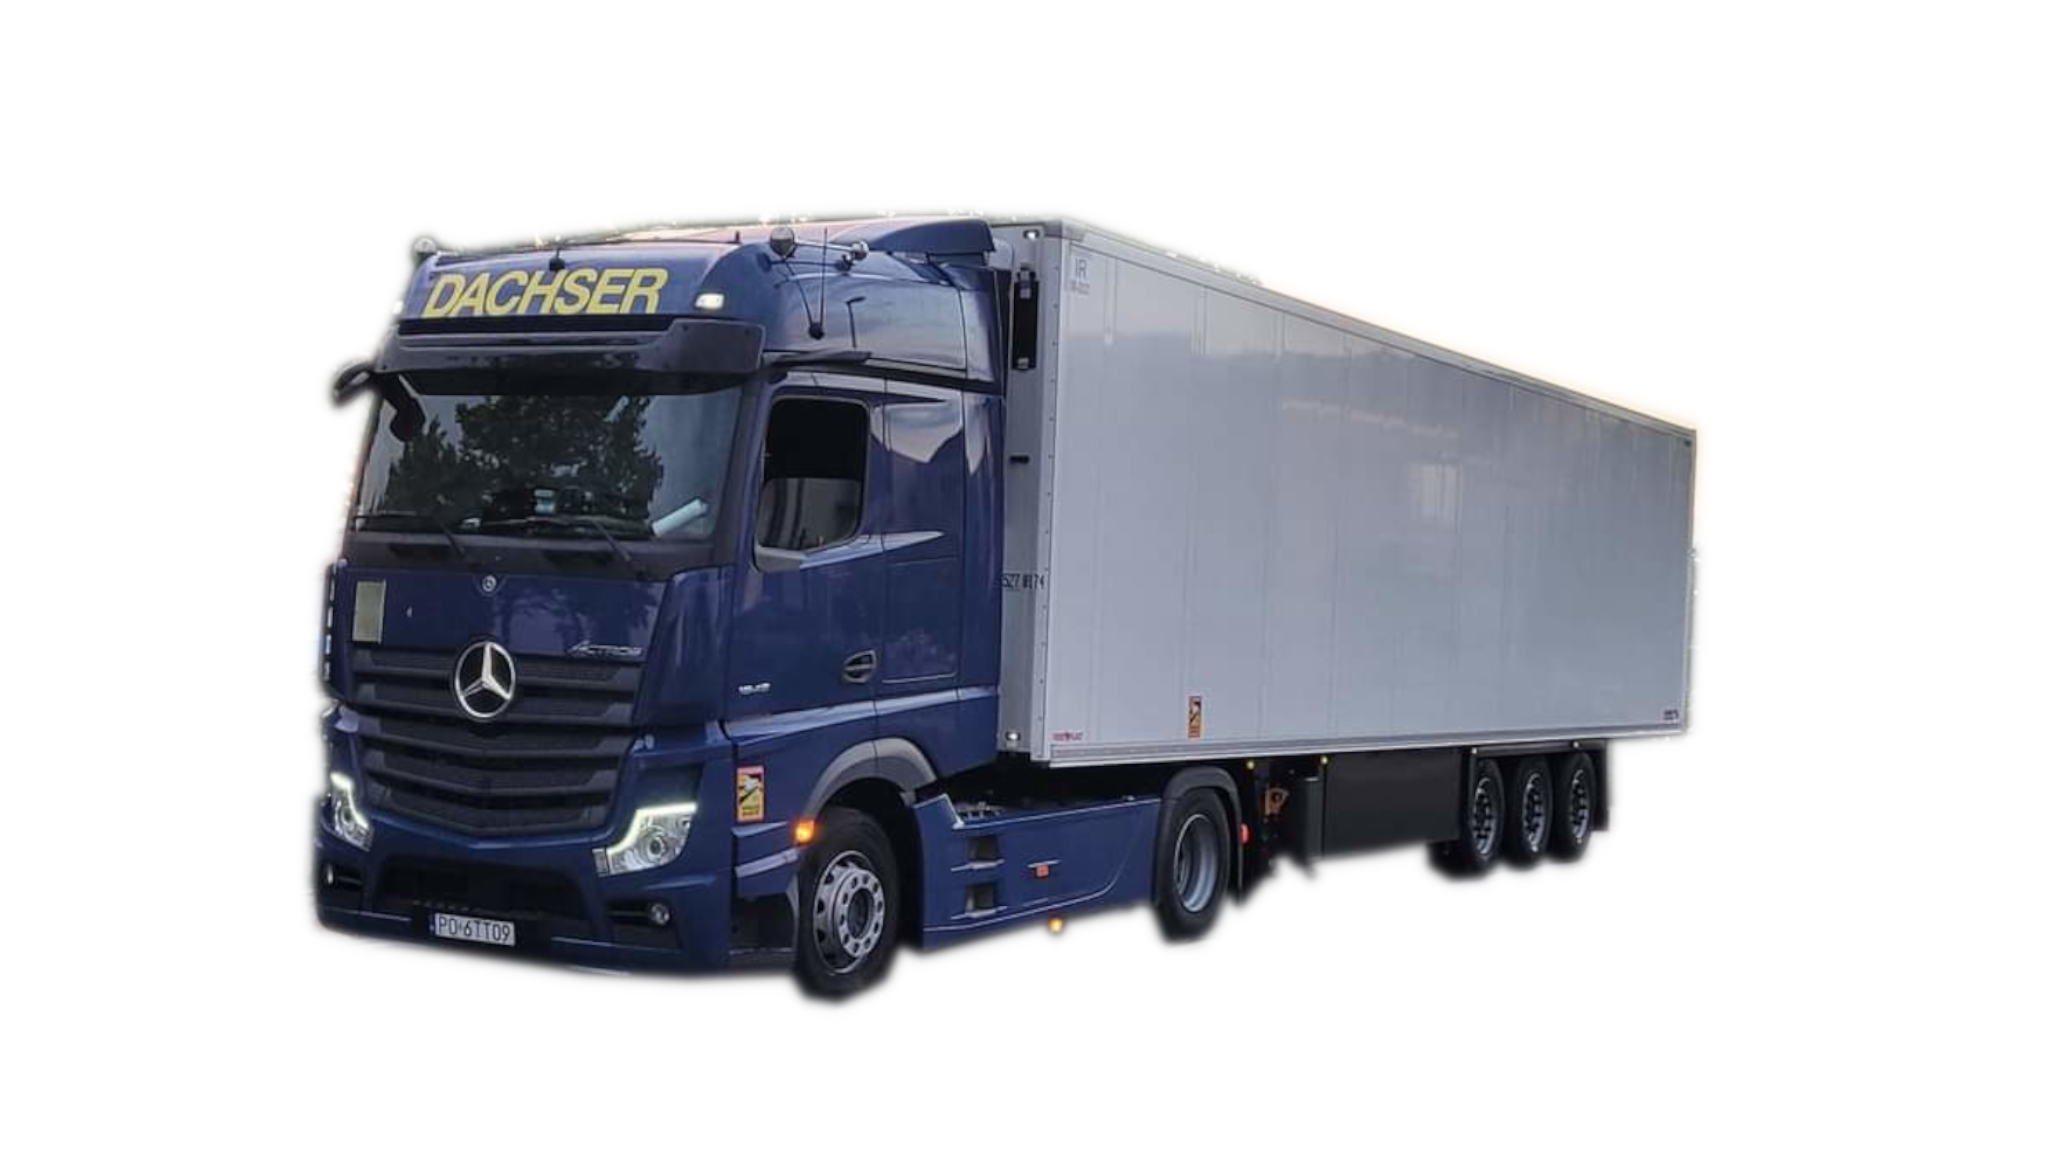
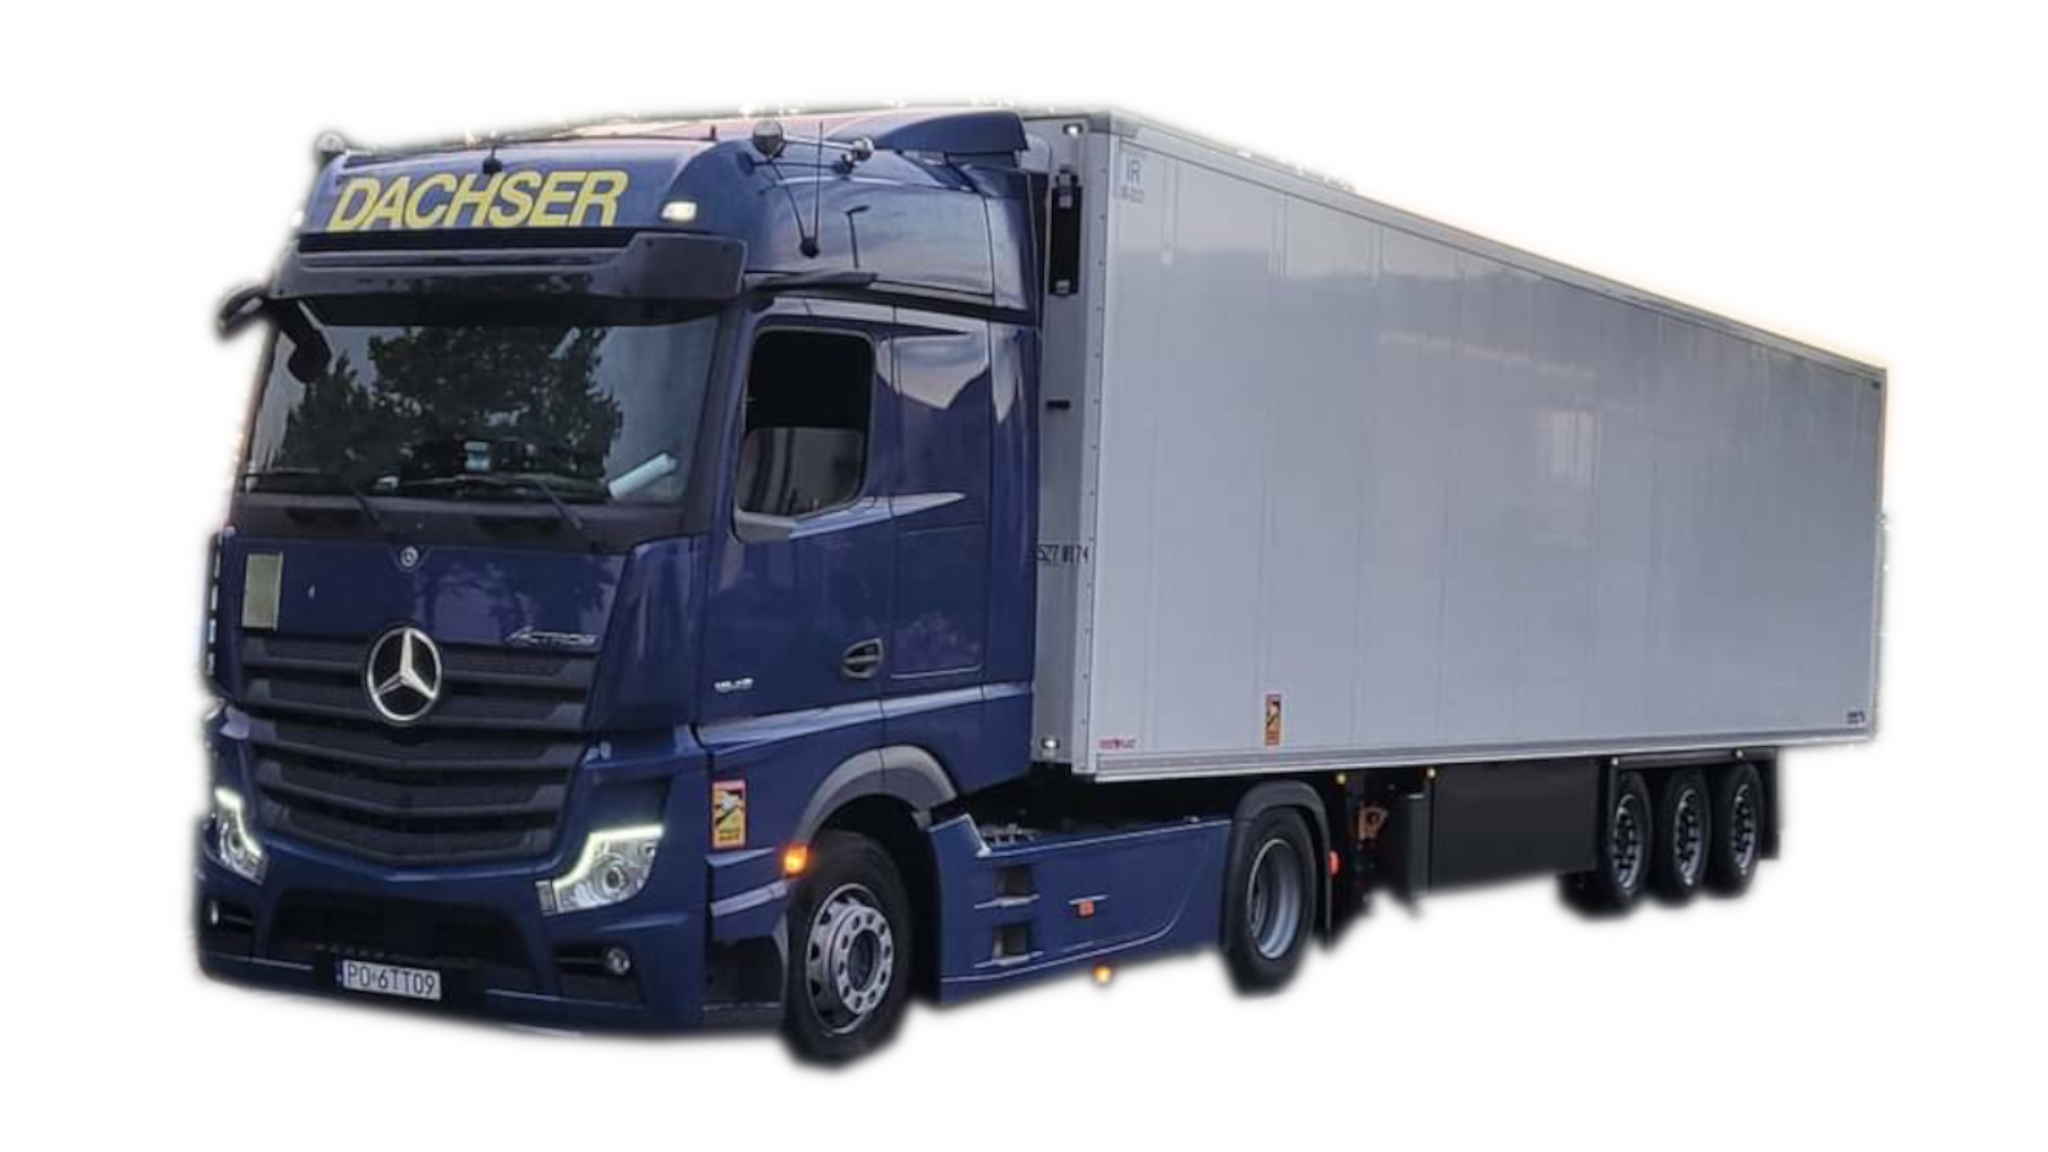
fix bugs with navbar, fix image size

diff --git a/src/components/Gallery.js b/src/components/Gallery.js
@@ -1,4 +1,6 @@
 import choldnica1 from "./chlodnia1111.jpg";
+import galeria2 from "./galeria2.jpg";
+import galeria3 from "./galeria3.jpg";
 const Gallery = () => {
   return (
     <div className="row" style={{ backgroundColor: "#FFC800" }}>
@@ -8,19 +10,19 @@ const Gallery = () => {
       
        */}
       <div className="mt-5 col-md-4 col-sm-12 text-center black-and-white text-dark">
-        <img className="img-fluid" src={choldnica1} alt="" />
+        <img className="img-fluid img-gallery" src={choldnica1} alt="" />
         <div className="describe-truck  mb-3">
           <b>LOREM</b>
         </div>
       </div>
       <div className="mt-5 col-md-4 col-sm-12 text-center black-and-white  text-dark">
-        <img className="img-fluid" src={choldnica1} alt="" />
+        <img className="img-fluid img-gallery" src={galeria2} alt="" />
         <div className="describe-truck  mb-3">
           <b>LOREM</b>
         </div>
       </div>
       <div className="mt-5 col-md-4 col-sm-12 text-center black-and-white  text-dark">
-        <img className="img-fluid" src={choldnica1} alt="" />
+        <img className="img-fluid img-gallery" src={galeria3} alt="" />
         <div className=" describe-truck mb-3">
           <b>LOREM</b>
         </div>

diff --git a/src/components/Footer.js b/src/components/Footer.js
@@ -3,7 +3,6 @@ const Footer = () => {
   return (
     <div
       className="row mt-3"
-      id="section5"
 
     >
       <div className="col-12 text-center">
@@ -48,6 +47,16 @@ const Footer = () => {
             <li className="nav-item px-2">
               {" "}
               <a href="#section4"> Współpraca</a>
+            </li>
+            |
+            <li className="nav-item px-2">
+              {" "}
+              <a href="#section5"> Wycena</a>
+            </li>
+            |
+            <li className="nav-item px-2">
+              {" "}
+              <a href="#section6"> Kontatk</a>
             </li>
             |
             <li className="nav-item px-1">

diff --git a/src/components/NavBar.js b/src/components/NavBar.js
@@ -57,12 +57,17 @@ const NavBar = (onClick) => {
               </a>
             </li>
             <li className="nav-item">
-              <a href="/#section4" className="nav-link">
+              <a href="#section4" className="nav-link">
                 <h5>Współpraca</h5>
               </a>
             </li>
             <li className="nav-item">
               <a href="#section5" className="nav-link">
+                <h5>Wycena</h5>
+              </a>
+            </li>
+            <li className="nav-item">
+              <a href="#section6" className="nav-link">
                 <h5>Kontakt</h5>
               </a>
             </li>

diff --git a/src/components/TextAndPhoto.js b/src/components/TextAndPhoto.js
@@ -2,6 +2,7 @@
 import beztla1 from "./beztla1.png"
 import beztla2 from "./beztla2.png"
 import beztla3 from "./beztla3.png"
+import bez_tla_wieksze from "./bez_tla_wieksze.png"
 const TextaAndPhoto = () => {
   return (
     <div
@@ -32,7 +33,7 @@ const TextaAndPhoto = () => {
       </div>
       <div className="col-lg-6 col-sm-12 text-center m-0">
         <img
-          src={beztla1}
+          src={bez_tla_wieksze}
           alt=""
           className="img-fluid "
           decoding="async"

diff --git a/src/components/TransportQuote.js b/src/components/TransportQuote.js
@@ -82,7 +82,8 @@ const TransportQuote = () => {
   const [passSend, setPassSend] = useState(false);
   return (
     <form ref={form} onSubmit={sendEmail}>
-      <div className="row  mt-4">
+      <div className="row  mt-4" id="section5">
+        <h2 className="text-center p-3">WYCENA TRANSPORTU</h2>
         {/* ZAŁADUNEK */}
         <div className="col-lg-6 col-sm-12">
           <label className="form-label" htmlFor="">

diff --git a/src/index.css b/src/index.css
@@ -122,7 +122,7 @@ a:visited {
   color: white;
 }
 a:hover {
-  color:#E7202D !important;
+  color:#FFC107 !important;
 }
 .py-0 {
   padding-top: 0.01rem!important;
@@ -368,4 +368,9 @@ select:-webkit-autofill:focus {
   /* -webkit-box-shadow: 0 0 0px 1000px #000 inset; */
   transition: background-color 5000s ease-in-out 0s;
   -webkit-text-fill-color: white;
+}
+
+.img-gallery {
+  height: 50vh;
+  object-fit : cover;
 }

diff --git a/src/components/FormsEmail.js b/src/components/FormsEmail.js
@@ -32,7 +32,7 @@ const Forms = () => {
   const [showError,setshowError] = useState(false)
   const [showPass,setshowPass] = useState(false)
   return (
-    <div className="row"  style={{ backgroundColor: "rgb(51,52,51)"}}>
+    <div className="row" id="section6" style={{ backgroundColor: "rgb(51,52,51)"}}>
       <div className="col-12 text-center fw-bold mt-5 fs-1">
         BĄDZMY W KONTAKCIE
       </div>

diff --git a/src/components/TextAndPhoto2.js b/src/components/TextAndPhoto2.js
@@ -6,7 +6,7 @@ import beztla3 from "./beztla3.png"
 const TextaAndPhoto2 = () => {
   return (
     <div className="row align-items-center " style={{backgroundColor:'#1b1464'}}>
-      <div className="col-lg-6 col-sm-12 text-center  mt-5 mb-3">
+      <div className="col-lg-6 col-sm-12 text-center  mt-5 mb-md-3">
         <img
           src={beztla3}
           alt=""
